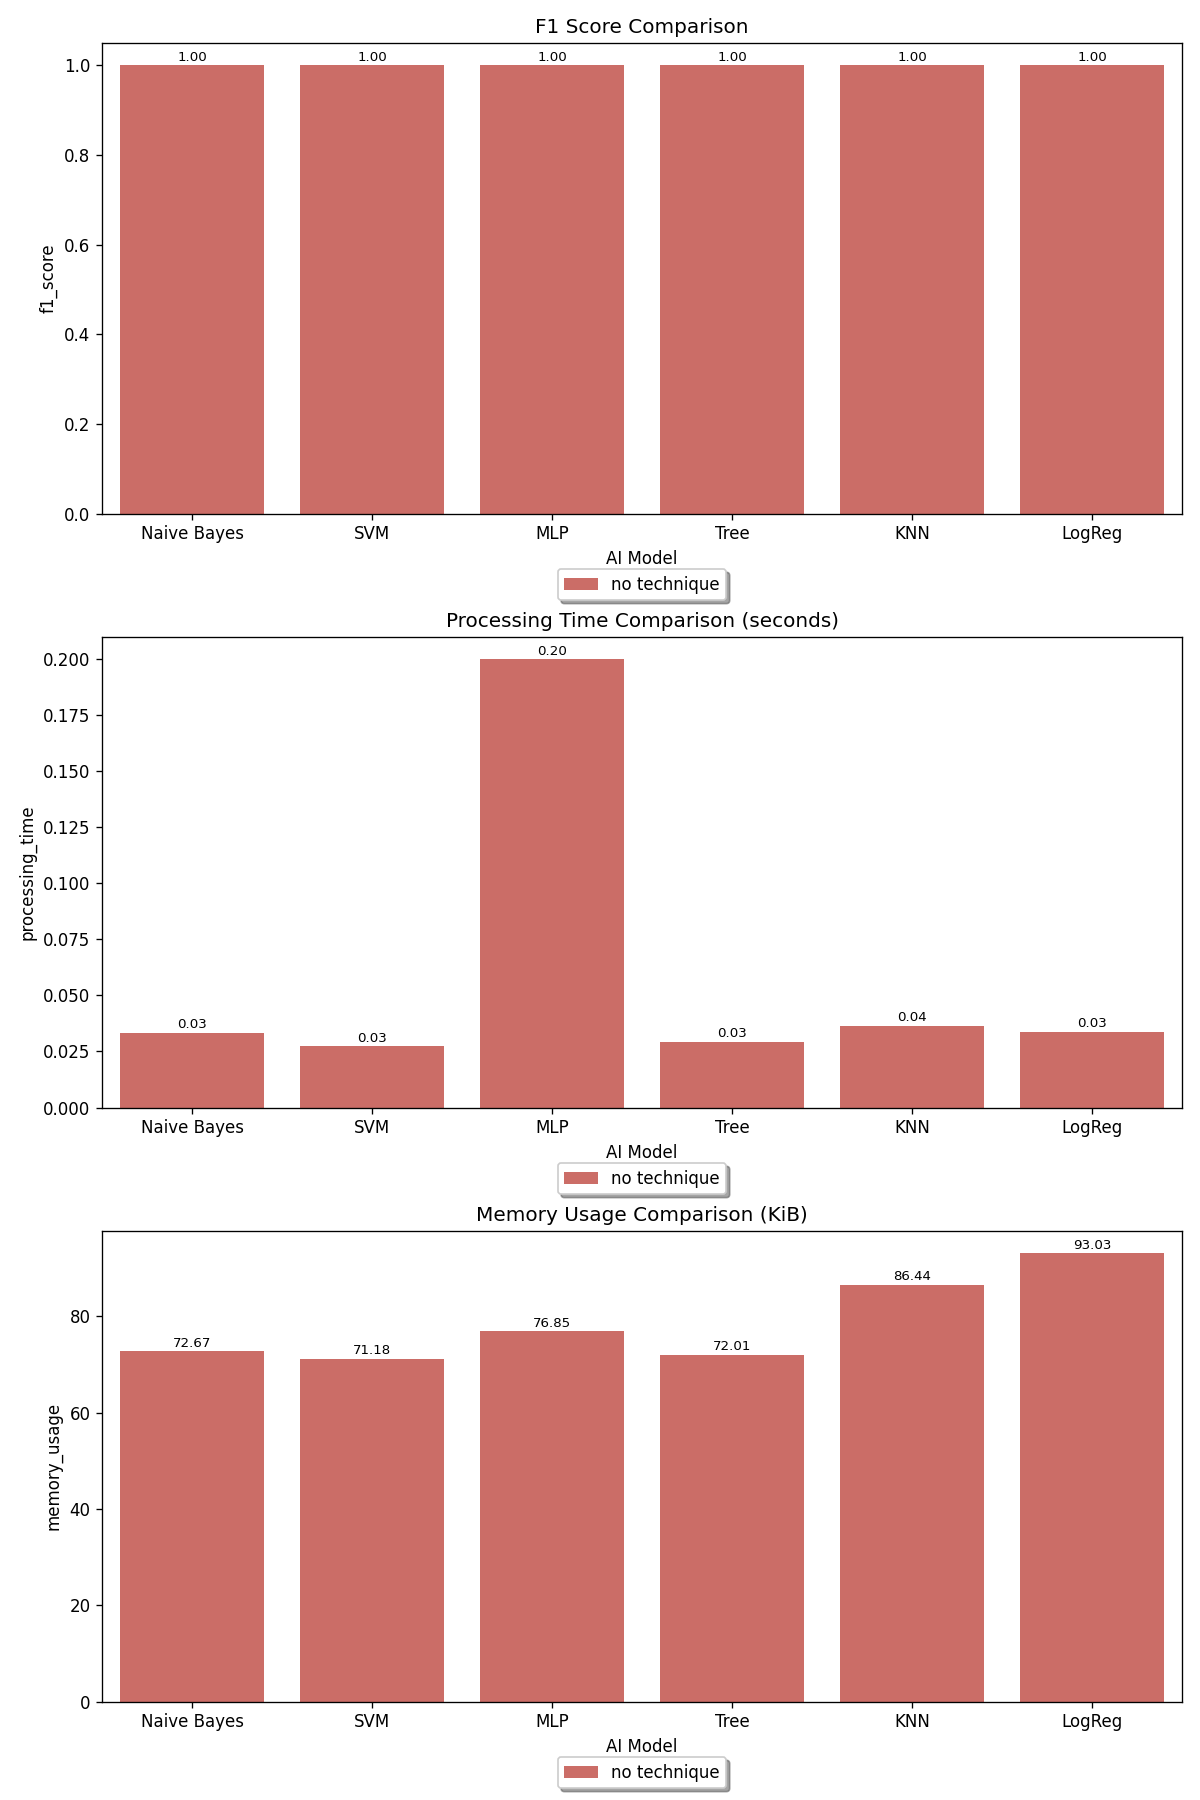
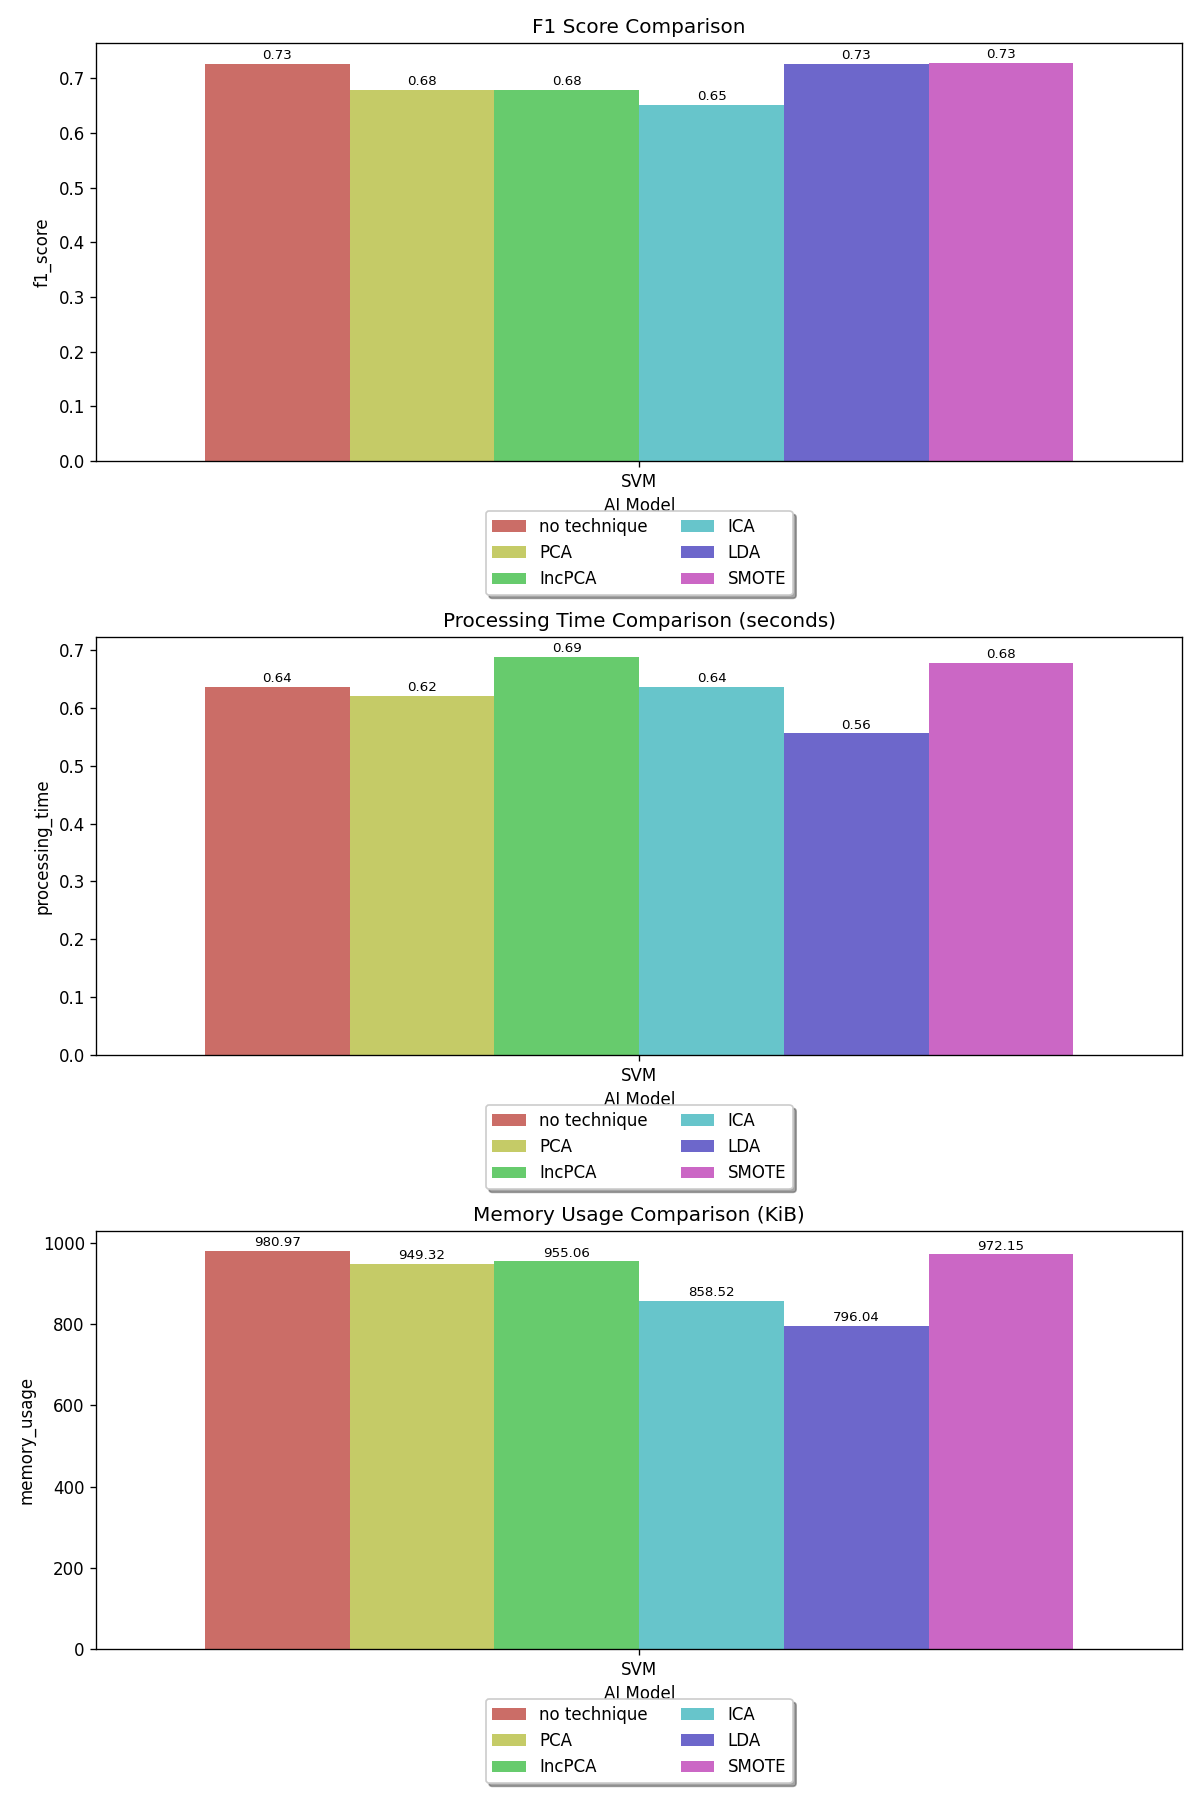
Add files via upload

diff --git a/bin/program_analysis.py b/bin/program_analysis.py
@@ -1,0 +1,155 @@
+import warnings
+warnings.filterwarnings("ignore")
+
+import pandas as pd
+import numpy as np
+import time
+import sys
+import tracemalloc
+
+from sklearn.preprocessing import StandardScaler
+from sklearn.metrics import f1_score
+
+
+from sklearn.model_selection import train_test_split
+from sklearn.svm import SVC
+from sklearn.neural_network import MLPClassifier
+from sklearn.tree import DecisionTreeClassifier
+from sklearn.neighbors import KNeighborsClassifier
+from sklearn.linear_model import LogisticRegression
+from sklearn.ensemble import GradientBoostingClassifier
+from sklearn.naive_bayes import GaussianNB
+
+
+from sklearn.decomposition import PCA
+from sklearn.decomposition import IncrementalPCA
+from sklearn.decomposition import FastICA
+from sklearn.discriminant_analysis import LinearDiscriminantAnalysis
+from imblearn.over_sampling import SMOTE
+
+class Analysis:
+
+    def __init__(self, dataframe, technique, model='SVM'):
+        self.prepare_data(dataframe)
+        self.perform_analysis(technique, model)
+
+    def prepare_data(self, dataframe):
+        # Drop 'id' column and shuffle the dataframe
+        if 'id' in dataframe.columns:
+            dataframe.drop('id', axis=1, inplace=True)
+        dataframe = dataframe.sample(frac=1, random_state=42).reset_index(drop=True)
+
+        for column in dataframe.columns:
+            dataframe[column] = dataframe[column].apply(lambda x: pd.to_numeric(x, errors='coerce') if isinstance(x, str) and any(char.isdigit() for char in x) else x)
+
+        dataframe = dataframe.dropna()
+
+        # Define X matrix and y column
+        self.X = dataframe.iloc[:, :-1]
+        self.y = dataframe.iloc[:, -1]
+
+    def perform_analysis(self, technique, model):
+
+        self.X_train, self.X_test, self.y_train, self.y_test = train_test_split(self.X, self.y, test_size=0.20, random_state=42)
+
+        if technique == 'PCA':
+            self.apply_pca()
+        elif technique == 'IncPCA':
+            self.apply_ipca()
+        elif technique == 'ICA':
+            self.apply_ica()
+        elif technique == 'LDA':
+            self.apply_lda()
+        elif technique == 'SMOTE':
+            self.apply_smote()
+        else: # Apply no technique
+            pass
+        
+        self.apply_normalization()
+
+        self.f1_score = self.select_model_and_get_f1(model)
+
+    def apply_pca(self):
+        pca = PCA(n_components=0.95)
+        self.X_train = pca.fit_transform(self.X_train)
+        self.X_test = pca.transform(self.X_test)
+
+    def apply_ipca(self):
+        pca = PCA()
+        pca.fit(self.X_train)
+        n_components = np.argmax(np.cumsum(pca.explained_variance_ratio_) >= 0.95) + 1
+        ipca = IncrementalPCA(n_components=n_components)
+        self.X_train = ipca.fit_transform(self.X_train)
+        self.X_test = ipca.transform(self.X_test)
+    
+    def apply_ica(self):
+        n_components = int(self.X_train.shape[1]/2)
+        ica = FastICA(n_components=n_components, random_state=42)
+        self.X_train = ica.fit_transform(self.X_train)
+        self.X_test = ica.transform(self.X_test)
+
+    def apply_lda(self):
+        lda = LinearDiscriminantAnalysis()
+        self.X_train = lda.fit_transform(self.X_train, self.y_train)
+
+        self.X_test = lda.transform(self.X_test)
+
+    def apply_smote(self):
+        smote = SMOTE(random_state=42)
+        self.X_train, self.y_train = smote.fit_resample(self.X_train, self.y_train)  
+
+
+    def apply_normalization(self):
+        scaler = StandardScaler()
+        self.X_train = scaler.fit_transform(self.X_train)
+        self.X_test = scaler.transform(self.X_test)
+
+    def select_model_and_get_f1(self, model):
+        model_dict = {'Naive Bayes': GaussianNB(),
+                      'SVM': SVC(kernel='linear'),
+                      'MLP': MLPClassifier(hidden_layer_sizes=(50,), activation='relu', solver='adam', max_iter=300),
+                      'Tree': DecisionTreeClassifier(),
+                      'KNN': KNeighborsClassifier(),
+                      'LogReg': LogisticRegression(),
+                      'GBC': GradientBoostingClassifier()
+                     }
+        
+
+        return self.get_f1_score(model_dict[model])
+
+    def get_f1_score(self, classifier):
+        classifier.fit(self.X_train, self.y_train)
+        self.y_pred = classifier.predict(self.X_test)
+        return f1_score(self.y_test, self.y_pred, average='weighted')
+    
+
+
+# We get the parameters passed by the parent script
+dataset = sys.argv[1]
+dataset = pd.read_csv(dataset)
+technique = sys.argv[2]
+model = sys.argv[3]
+
+
+# We use tracemalloc snapshots to get the memory used immediately before the execution and after it. 
+tracemalloc.start()
+start_time = time.time()
+start_snapshot = tracemalloc.take_snapshot()
+
+
+a = Analysis(dataset, technique, model)
+
+
+end_snapshot = tracemalloc.take_snapshot()
+end_time = time.time()
+tracemalloc.stop()
+
+# The memory usage is shown in Kibibytes (KiB)
+diff_snapshot = end_snapshot.compare_to(start_snapshot, 'lineno')
+memory_usage = sum(stat.size for stat in diff_snapshot)/1024
+
+processing_time = end_time - start_time
+
+result = str(technique) + "," + str(model) + "," + str(a.f1_score) + "," + str(processing_time) + "," + str(memory_usage)
+
+print(result)

diff --git a/bin/program_plot.py b/bin/program_plot.py
@@ -1,0 +1,47 @@
+import sys
+import matplotlib.pyplot as plt
+from matplotlib.backends.backend_agg import FigureCanvasAgg
+import seaborn as sns
+import pandas as pd
+from PIL import Image
+
+def plot():
+    dataset = pd.read_csv('results table\\results.csv')
+
+    metrics = ["f1_score", "processing_time", "memory_usage"]
+    titles = ["F1 Score Comparison", "Processing Time Comparison (seconds)", "Memory Usage Comparison (KiB)"]
+
+    fig, axes = plt.subplots(len(metrics), 1, figsize=(10, 5 * len(metrics)), dpi=120)
+
+    sns.set_palette("hls")
+
+    for i, metric in enumerate(metrics):
+        ax = sns.barplot(data=dataset, x="model", y=metric, hue="technique", errorbar=None, ax=axes[i])
+        axes[i].set_xlabel("AI Model")
+        axes[i].set_ylabel(metric)
+        axes[i].set_title(titles[i])
+
+        ax.legend(loc='upper center', bbox_to_anchor=(0.5, -0.1), shadow=True, ncol=2)
+
+        for p in ax.patches:
+            height = p.get_height() if not pd.isnull(p.get_height()) else 0
+            if height != 0:  
+                ax.annotate(f'{height:.2f}', (p.get_x() + p.get_width() / 2., height),
+                            ha='center', va='center', fontsize=8, color='black', xytext=(0, 5),
+                            textcoords='offset points')
+
+    plt.tight_layout()
+
+    figure = plt.gcf()  
+    canvas = FigureCanvasAgg(figure)
+    canvas.draw()
+    image_data = canvas.tostring_rgb()
+    size = canvas.get_width_height()
+
+    # Save the Seaborn plot as an image
+    image = Image.frombytes("RGB", size, image_data)
+    image.save('results image\\graphs.png')
+
+if __name__ == "__main__":
+    plot()
+    sys.exit(0)

diff --git a/code/Best_Classification_AI.java b/code/Best_Classification_AI.java
@@ -15,7 +15,7 @@ public class Best_Classification_AI extends JFrame implements ActionListener {
     StringBuilder pythonOutput = new StringBuilder();
 
     public Best_Classification_AI() {
-        super("Best-Classifiation-AI");
+        super("Best Classifiation AI");
 
         // Set look and feel to system default
         try {

diff --git a/README.md b/README.md
@@ -1,10 +1,11 @@
 # Best-Classification-AI
 This project is an extension of my senior thesis.
 
-This is a program that is able to get a CSV given by the user and perform an analysis on different supervisioned AI classification models and optimization techniques.
-The results of the analysis are provided though a series of imagines
+This is a program that is able to read a CSV given by the user and perform analysis on different supervisioned AI classification models and optimization techniques, comparing the resulting F1-Score, processing time and memory usage.
+The graphs of the analysis are provided though a series of images and be extracted at the results image folder.
+
+Run the .jar file to open the program.
 
 # ATENTION
-Your CSV must allow for supervisioned classification AIs and must have the y (target variable) column as the last column of the CSV. This code does not perform data cleaning.
+- Your CSV must allow for supervisioned classification AIs and must have the y (target variable) column as the last column of the CSV. This program does not perform data cleaning.
 
-# This project is still in development
